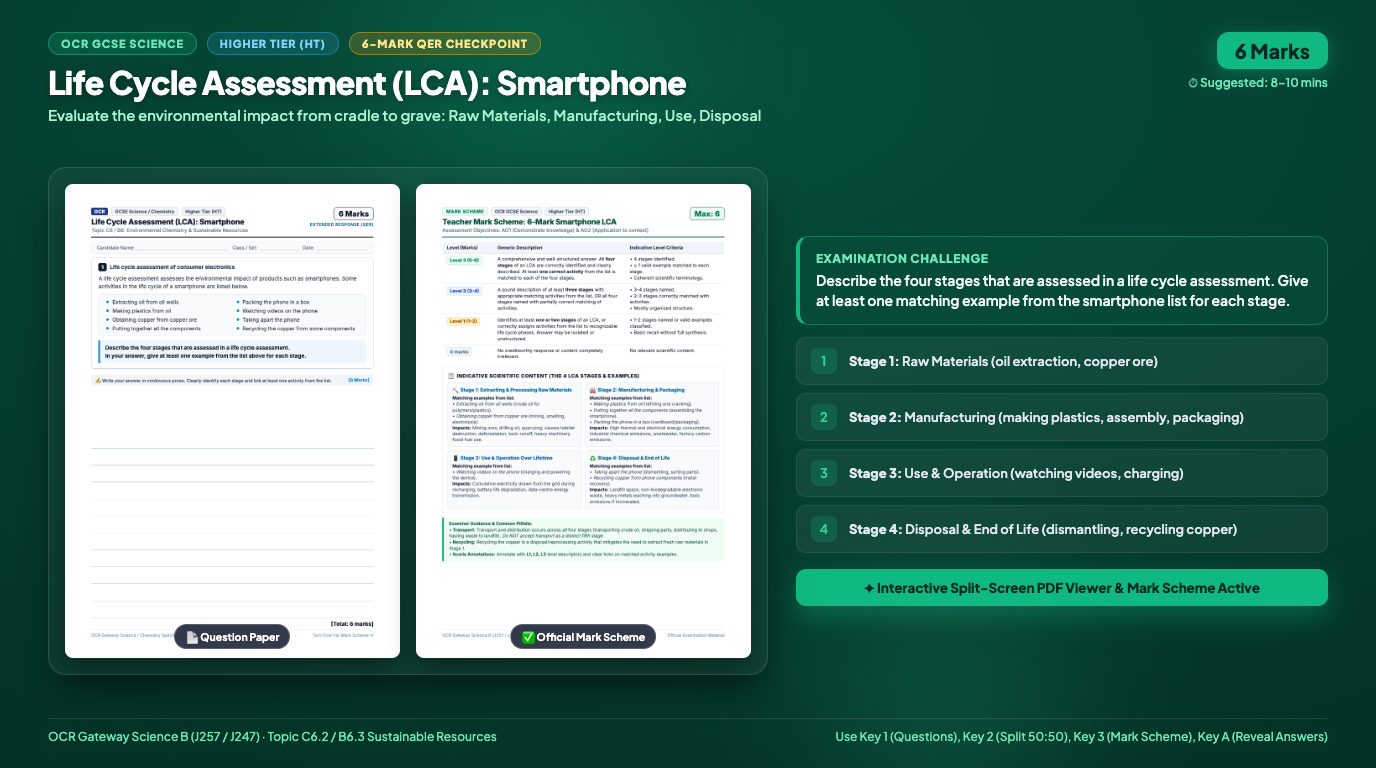
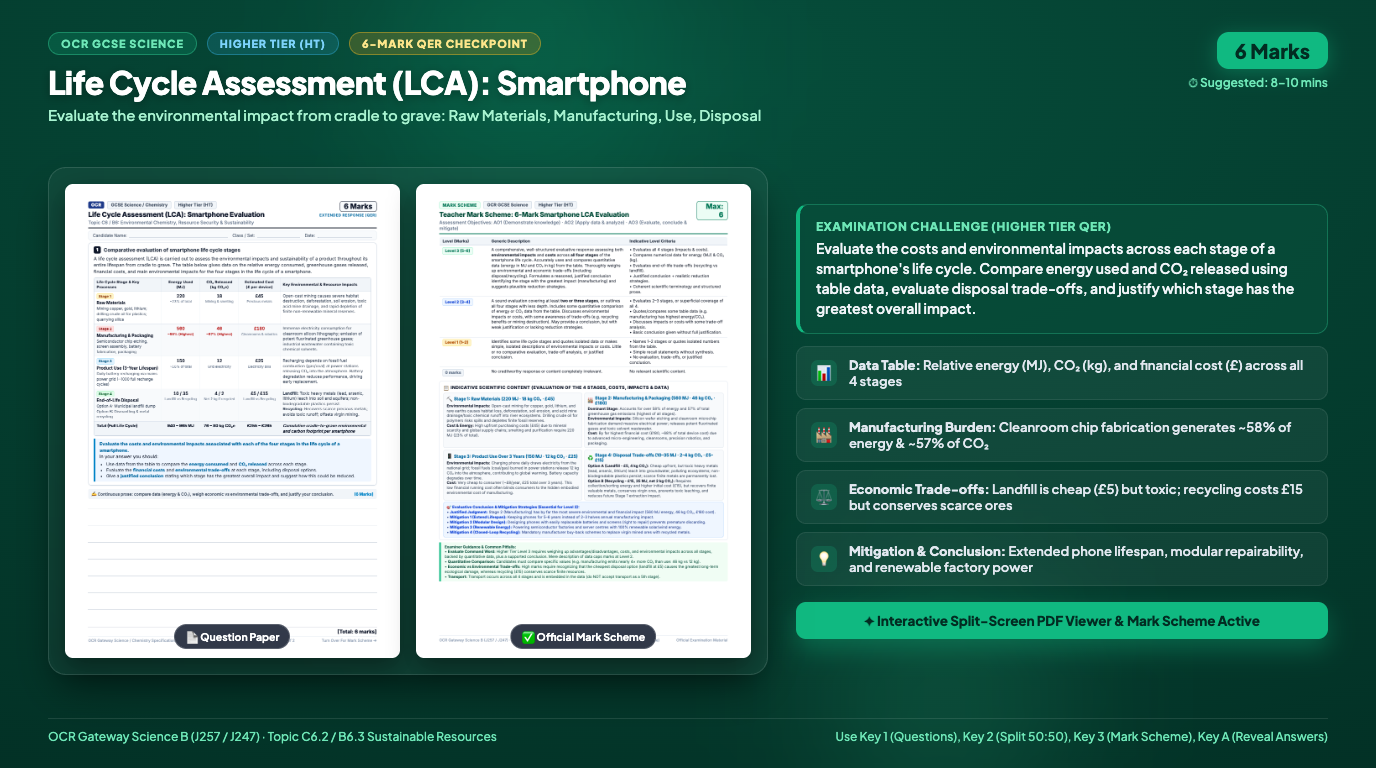
feat: update life cycle analysis slide 23 with 6-mark evaluation details and add automated model verification script

diff --git a/public/decks/ecology_atmosphere_classic/Classic_Lesson_11_Lifecycle_analysis/interactives/exam_pdf_viewer.html b/public/decks/ecology_atmosphere_classic/Classic_Lesson_11_Lifecycle_analysis/interactives/exam_pdf_viewer.html
@@ -713,7 +713,7 @@
     <header class="top-bar">
       <div class="title-group">
         <span class="badge-ocr">OCR GCSE</span>
-        <h1 class="slide-heading">Life Cycle Assessment (Smartphone 6-Mark Question & Mark Scheme)</h1>
+        <h1 class="slide-heading">Life Cycle Assessment (Smartphone 6-Mark Evaluation &amp; Mark Scheme)</h1>
         <span class="mark-pill">6 Marks (QER)</span>
       </div>
 
@@ -759,7 +759,7 @@
           <button id="btnPrevSlide" class="btn-slide-nav" type="button" title="Previous Slide (← / Page Up)" aria-label="Previous Slide">
             <svg width="14" height="14" viewBox="0 0 24 24" fill="none" stroke="currentColor" stroke-width="2.5" stroke-linecap="round" stroke-linejoin="round"><polyline points="15 18 9 12 15 6"></polyline></svg>
           </button>
-          <span id="slideCounterText" class="slide-counter-badge" title="Current Slide">23 / 26</span>
+          <span id="slideCounterText" class="slide-counter-badge" title="Current Slide">24 / 27</span>
           <button id="btnNextSlide" class="btn-slide-nav" type="button" title="Next Slide (→ / Page Down / Space)" aria-label="Next Slide">
             <svg width="14" height="14" viewBox="0 0 24 24" fill="none" stroke="currentColor" stroke-width="2.5" stroke-linecap="round" stroke-linejoin="round"><polyline points="9 18 15 12 9 6"></polyline></svg>
           </button>
@@ -818,50 +818,51 @@
                 <div class="answer-card-full">
                   <div class="answer-header-badge">
                     <span class="model-pill">✓ Exemplar Model Answer [Level 3 · 6/6 Marks]</span>
-                    <span style="font-size: calc(11px * var(--scale)); color: #047857; font-weight: 700;">Coherent, continuous prose</span>
+                    <span style="font-size: calc(11px * var(--scale)); color: #047857; font-weight: 700;">Full Evaluative Synthesis &amp; Data Comparison</span>
                   </div>
 
                   <div class="answer-stage-grid">
                     <!-- Stage 1 -->
                     <div class="stage-card">
-                      <div class="stage-card-title"><span>⛏ Stage 1: Raw Material Extraction</span></div>
+                      <div class="stage-card-title"><span>⛏ Stage 1: Raw Materials (220 MJ · 18 kg CO₂ · £45)</span></div>
                       <div class="stage-card-example">
-                        • <strong>Extracting oil from oil wells</strong> (for plastics).<br>
-                        • <strong>Obtaining copper from copper ore</strong> (mining/smelting).
+                        • <strong>Impacts:</strong> Mining copper, lithium, and gold destroys habitats, clears forests, and causes toxic acid mine drainage into river ecosystems. Crude oil drilling for casing polymers risks spills and consumes non-renewable finite reserves.<br>
+                        • <strong>Costs &amp; Energy:</strong> High upfront raw material cost (£45) driven by mineral scarcity; smelting requires 220 MJ (23% of total).
                       </div>
                     </div>
                     <!-- Stage 2 -->
                     <div class="stage-card">
-                      <div class="stage-card-title"><span>🏭 Stage 2: Manufacturing &amp; Packaging</span></div>
+                      <div class="stage-card-title"><span>🏭 Stage 2: Manufacturing &amp; Packaging (560 MJ · 46 kg CO₂ · £180)</span></div>
                       <div class="stage-card-example">
-                        • <strong>Making plastics from oil</strong> &amp; <strong>putting together components</strong>.<br>
-                        • <strong>Packing the phone in a box</strong>.
+                        • <strong>Dominant Stage:</strong> Highest carbon and energy stage by far (~58% energy, ~57% CO₂). Cleanrooms, silicon lithography, and precision chip etching require massive electrical power and emit potent fluorinated greenhouse gases.<br>
+                        • <strong>Costs:</strong> Largest financial expense (£180, ~68% of total device cost) due to advanced micro-engineering and cleanrooms.
                       </div>
                     </div>
                     <!-- Stage 3 -->
                     <div class="stage-card">
-                      <div class="stage-card-title"><span>📱 Stage 3: Use &amp; Operation</span></div>
+                      <div class="stage-card-title"><span>📱 Stage 3: Product Use Over 3 Years (150 MJ · 12 kg CO₂ · £25)</span></div>
                       <div class="stage-card-example">
-                        • <strong>Watching videos on the phone</strong> (consuming electrical power during recharging over its lifespan).
+                        • <strong>Impacts:</strong> Recharging lithium-ion battery daily (~1000 recharge cycles) draws electricity from power stations burning fossil fuels, releasing 12 kg CO₂ into the atmosphere. Battery degradation forces premature replacement.<br>
+                        • <strong>Costs:</strong> Low running cost to the consumer (~£8/year, £25 total), which conceals the massive upstream manufacturing environmental debt.
                       </div>
                     </div>
                     <!-- Stage 4 -->
                     <div class="stage-card">
-                      <div class="stage-card-title"><span>♻ Stage 4: Disposal &amp; End of Life</span></div>
+                      <div class="stage-card-title"><span>♻ Stage 4: Disposal Trade-offs (10–35 MJ · 2–4 kg CO₂ · £5–£15)</span></div>
                       <div class="stage-card-example">
-                        • <strong>Taking apart the phone</strong> (dismantling electronic waste).<br>
-                        • <strong>Recycling copper</strong> from phone components.
+                        • <strong>Landfill (£5, 4 kg CO₂):</strong> Cheap initially, but toxic heavy metals (lead, arsenic, lithium) leach into soil and aquifers; non-biodegradable plastics persist; scarce metals are permanently lost.<br>
+                        • <strong>Recycling (£15, 35 MJ, net 2 kg CO₂):</strong> Higher sorting energy and labor costs, but recovers finite precious metals, prevents toxic leaching, and saves substantial energy in Stage 1 virgin ore extraction.
                       </div>
                     </div>
                   </div>
 
                   <div class="answer-prose-box">
-                    <strong>Written Synthesis:</strong> "The four stages assessed in an LCA are extracting raw materials, manufacturing and packaging, use and operation, and disposal at end-of-life. In stage 1, extracting oil from oil wells and obtaining copper from copper ore provide the raw resources. In stage 2, manufacturing involves making plastics from oil, assembling the phone components, and packing the phone in a box. In stage 3, using the phone includes watching videos, which draws electrical energy from charging. Finally, in stage 4, disposal involves taking apart the phone and recycling copper to minimize landfill waste. Transport also occurs between each of these stages."
+                    <strong>Written Synthesis (Continuous Prose):</strong> "A comprehensive life cycle assessment of a smartphone reveals that Stage 2 (manufacturing) has by far the most severe environmental and financial impact. Manufacturing consumes 560 MJ of energy (~58% of total) and releases 46 kg of CO₂ (~57% of total), while costing £180 (~68% of total device cost) due to energy-intensive cleanrooms and silicon wafer etching. By comparison, raw material extraction (Stage 1) accounts for 220 MJ and 18 kg CO₂, causing severe habitat destruction and acid mine drainage from copper and lithium mining. In Stage 3, recharging the phone over a 3-year lifespan consumes 150 MJ and releases 12 kg CO₂ via grid power plants, but costs only £25, which obscures the hidden embodied environmental debt. At end-of-life (Stage 4), municipal landfill is cheap upfront (£5) but releases toxic heavy metals into groundwater and loses scarce finite minerals. Conversely, recycling requires £15 and 35 MJ but achieves net 2 kg CO₂ and recovers finite gold and copper, reducing the need for future Stage 1 mining. In conclusion, manufacturing is the most damaging stage; this impact can be minimized by keeping smartphones for 5+ years, designing modular repairable devices, powering factories with renewable energy, and enforcing closed-loop metal recycling schemes."
                   </div>
 
                   <div class="answer-footer-note">
-                    <span>Scoris Annotation: Level 3 (5–6 Marks)</span>
-                    <span>All 4 stages identified + specific activities linked accurately</span>
+                    <span>Scoris Annotation: Level 3 (6/6 Marks)</span>
+                    <span>Evaluates all 4 stages · Accurately compares table data · Evaluates cost vs environmental trade-offs · Justified conclusion &amp; mitigation</span>
                   </div>
                 </div>
               </div>
@@ -905,9 +906,10 @@
             <span>Examiner Guidance Insights</span>
           </div>
           <div class="callout-tip">
-            <p><strong>Level 3 Requirement (5–6 Marks):</strong> All four stages (Raw materials, Manufacturing, Use, Disposal) must be identified with at least one matching activity from the list given for each stage.</p>
-            <p><strong>Common Pitfall:</strong> Transport and distribution occurs across <em>all stages</em>; do not accept transport as a separate 5th stage.</p>
-            <p><strong>Recycling:</strong> Recognise that recycling copper belongs in disposal/recovery and reduces raw material extraction.</p>
+            <p><strong>Level 3 Requirement (5–6 Marks):</strong> Evaluate both costs and environmental impacts across all four stages, explicitly comparing data from the table (energy in MJ and CO₂ in kg).</p>
+            <p><strong>Cost vs Environment Trade-off:</strong> Explain that the cheapest disposal method (landfill at £5) causes severe long-term toxic leaching, whereas recycling (£15) conserves finite mineral reserves and offsets virgin mining.</p>
+            <p><strong>Justified Conclusion:</strong> Name manufacturing as the dominant stage (~58% energy, ~57% CO₂, ~68% cost) and provide actionable reduction strategies (modular design, extended lifespan, renewable fabrication).</p>
+            <p><strong>Common Pitfall:</strong> Do not treat transport as a 5th stage; transport is already embedded across all four stages.</p>
           </div>
         </div>
       </section>
